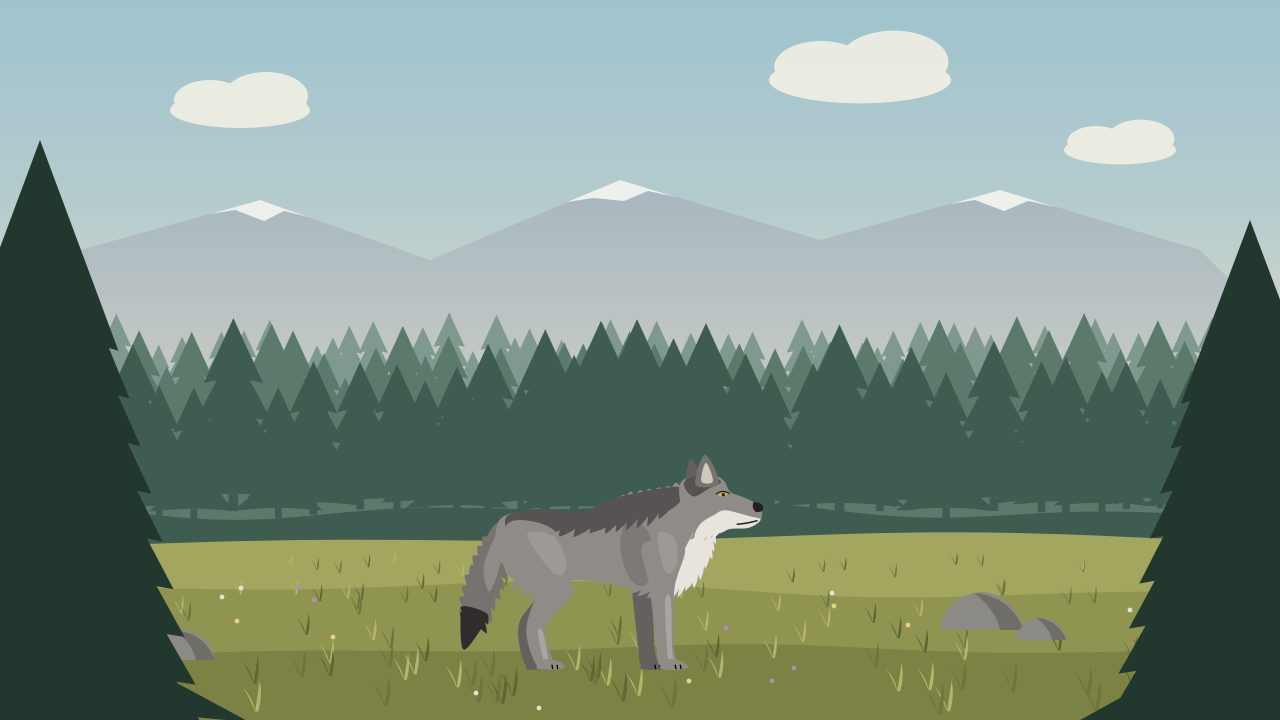
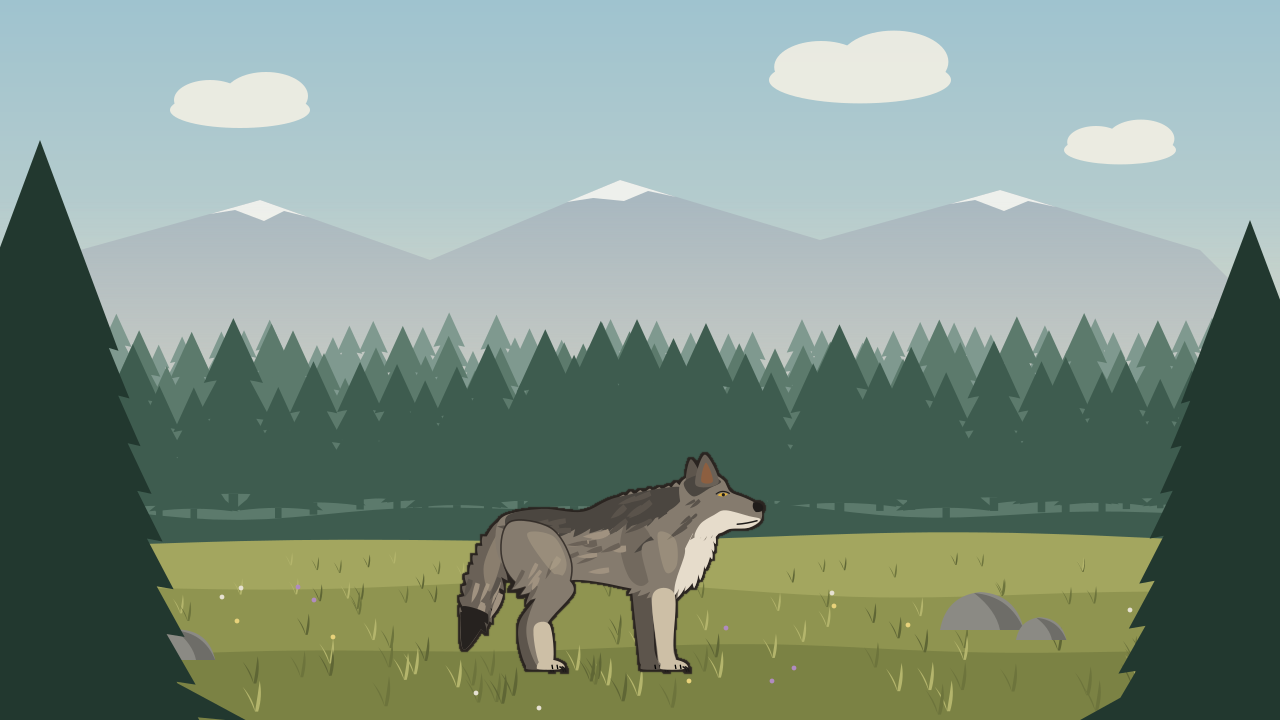
向量灰狼：試加外框墨線、毛撮與暖灰褐配色（往插畫風靠）
Claude-Session: https://claude.ai/code/session_01HkqM82v9towmCBuEomSQC3

Changed region(s): [[0.3438, 0.6111, 0.5938, 0.9472], [0.3438, 0.8861, 0.375, 0.9167]]

diff --git a/arts/art_vector_test_2026-10-13/gen_vector.py b/arts/art_vector_test_2026-10-13/gen_vector.py
@@ -94,19 +94,56 @@ def leg_shape(joints, widths):
     return right + left[::-1]
 
 
+def claws(x, y, r):
+    return "".join(f'<path d="M{x + r - 1 + i*1.6:.1f} {y - 1:.1f} q2 1 2.4 3" stroke="#1d1a18" stroke-width="1.1" fill="none" stroke-linecap="round"/>'
+                   for i in range(2))
+
+
 def paw_shape(x, y, fill, r=7.5):
     """腳掌：前低後高的橢圓，加兩條趾縫。"""
     return (f'<path d="M{x-r} {y} Q{x-r} {y-6} {x-1} {y-6.5} Q{x+r+2} {y-5} {x+r+2.5} {y-0.5} Q{x+r} {y+1} {x} {y+1} Q{x-r} {y+1} {x-r} {y} Z" fill="{fill}"/>'
             f'<path d="M{x+2} {y-2.5} L{x+2.5} {y+0.5} M{x+5.5} {y-2.5} L{x+6} {y+0.5}" stroke="#00000033" stroke-width="0.9"/>')
 
 
+INK = 'stroke="#2a2420" stroke-width="1.6" stroke-linejoin="round"'
+INK_IN = 'stroke="#2a2420" stroke-width="1.1" stroke-linejoin="round" stroke-opacity="0.8"'
+INK_RGB = (42, 36, 32)
+
+
+def tuft(x, y, length, ang, width, fill):
+    """一撮毛：葉片形，從 (x, y) 往 ang 方向（度）伸出，尾端尖。"""
+    a = math.radians(ang)
+    dx, dy = math.cos(a) * length, math.sin(a) * length
+    nx, ny = -math.sin(a) * width, math.cos(a) * width
+    return (f'<path d="M{x - nx*0.5:.1f} {y - ny*0.5:.1f} Q{x + dx*0.45 - nx:.1f} {y + dy*0.45 - ny:.1f} {x+dx:.1f} {y+dy:.1f} '
+            f'Q{x + dx*0.5 + nx*0.6:.1f} {y + dy*0.5 + ny*0.6:.1f} {x + nx*0.5:.1f} {y + ny*0.5:.1f} Z" fill="{fill}"/>')
+
+
+def tuft_field(seed, box, n, colors, length, ang, width=3.0):
+    """在 box=(x0, y0, x1, y1) 的橢圓範圍內撒 n 撮毛，方向大致一致、略有變化。"""
+    rnd = random.Random(seed)
+    x0, y0, x1, y1 = box
+    cx, cy, rx, ry = (x0 + x1) / 2, (y0 + y1) / 2, (x1 - x0) / 2, (y1 - y0) / 2
+    out = []
+    while n > 0:
+        u, v = rnd.uniform(-1, 1), rnd.uniform(-1, 1)
+        if u * u + v * v > 1:
+            continue
+        n -= 1
+        out.append(tuft(cx + u * rx, cy + v * ry, length * rnd.uniform(0.7, 1.2), ang + rnd.uniform(-12, 12),
+                        width * rnd.uniform(0.7, 1.2), rnd.choice(colors)))
+    return "".join(out)
+
+
 # ---------------- 灰狼 ----------------
 WOLF_PALETTES = {
     # base 主色、shade 陰影面、light 亮面、cream 臉頰與胸前、saddle 背上深色、far 遠側
-    "gray": dict(base="#8f8b87", shade="#76726f", light="#a9a5a0", cream="#e8e4dd", saddle="#575352",
-                 far="#64605e", nose="#222020", eye="#e2a73c", tip="#2f2c2b", ear_in="#cfc8bf"),
+    "gray": dict(base="#857b6e", shade="#6a6157", light="#aa9c86", cream="#e6dccb", saddle="#4b4640",
+                 far="#5d554c", nose="#1f1c1a", eye="#e2b13c", tip="#26221f", ear_in="#8d5f40", leg="#cdbfa6",
+                 tuft_l="#a09280", tuft_d="#5a534b"),
     "black": dict(base="#3d3c40", shade="#2f2e32", light="#4d4c51", cream="#6a686d", saddle="#232226",
-                  far="#28272b", nose="#121113", eye="#e4b54a", tip="#18171a", ear_in="#5a585d"),
+                  far="#28272b", nose="#121113", eye="#e4b54a", tip="#18171a", ear_in="#5a585d", leg="#4a494e",
+                  tuft_l="#4c4b50", tuft_d="#29282c"),
 }
 
 
@@ -116,15 +153,19 @@ def wolf(pal, pose=None, scale=1.0):
     q = dict(head=0, tail=0, fl=0, fr=0, hl=0, hr=0)
     q.update(pose or {})
     P = lambda spec, fill, sweep=(-0.5, 0.35), extra="": path(outline(spec, sweep), fill, extra)
-    L = lambda joints, widths, fill: path(outline(leg_shape(joints, widths)), fill)
+    L = lambda joints, widths, fill, extra="": path(outline(leg_shape(joints, widths)), fill, extra)
+    PO = lambda spec, fill, sweep=(-0.5, 0.35): path(outline(spec, sweep), fill)
+    PI = lambda spec, fill, sweep=(-0.5, 0.35): path(outline(spec, sweep), fill, INK_IN)
+    PAW = lambda x, y, fill, r: paw_shape(x, y, fill, r) + claws(x, y, r)
     g = []
     # 遠側的腿（深色）
-    g.append(rot(q["fr"], 152, 88, L([(156, 86), (154, 112), (156, 148), (158, 160)], [22, 15, 11, 10.5], p["far"]) + paw_shape(160, 163, p["far"], 8)))
-    g.append(rot(q["hr"], 82, 84, L([(80, 84), (94, 106), (74, 134), (78, 160)], [28, 18, 12, 10.5], p["far"]) + paw_shape(81, 163, p["far"], 8)))
+    g.append(rot(q["fr"], 152, 88, L([(156, 86), (154, 112), (156, 148), (158, 160)], [22, 15, 11, 10.5], p["far"]) + PAW(160, 163, p["far"], 8)))
+    g.append(rot(q["hr"], 82, 84, L([(80, 84), (94, 106), (74, 134), (78, 160)], [28, 18, 12, 10.5], p["far"]) + PAW(81, 163, p["far"], 8)))
     # 尾巴：蓬鬆下垂、兩側毛邊、尾尖深色
     tail_spec = [(62, 62), (60, 86), ("fur", 3, 4), (52, 114), ("fur", 3, 3), (42, 136), (30, 150),
                  (28, 128), ("fur", 4, 4), (34, 98), ("fur", 4, 4), (46, 72), (54, 62)]
-    tail = P(tail_spec, p["shade"], (0.2, 0.4))
+    tail = PO(tail_spec, p["shade"], (0.2, 0.4))
+    tail += tuft_field(3, (34, 76, 58, 128), 9, [p["tuft_l"], p["tuft_d"]], 16, 105, 3.0)
     tail += P([(47, 126), ("fur", 3, 2), (42, 136), (30, 150), (28, 128), ("fur", 2, 2), (30, 120)], p["tip"], (0.2, 0.4))
     tail += P([(54, 70), (56, 88), (48, 110), (44, 92)], p["light"], extra='opacity="0.5"')
     g.append(rot(q["tail"], 60, 66, tail))
@@ -132,38 +173,44 @@ def wolf(pal, pose=None, scale=1.0):
     body = [(58, 58), (84, 54), (112, 56), (136, 46), ("fur", 3, 8), (186, 36),
             (204, 64), ("fur", 4, 4), (200, 86), ("fur", 4, 3), (188, 104), ("fur", 4, 3), (172, 112), ("fur", 3, 4), (146, 108),
             (126, 104), (108, 102), (92, 104), (72, 104), (56, 90), (52, 72)]
-    g.append(P(body, p["base"], (-0.6, 0.3)))
+    g.append(PO(body, p["base"], (-0.6, 0.3)))
     # 肩後的陰影面、背上的深色鞍形毛（下緣是毛邊）
     g.append(P([(144, 60), (158, 70), (162, 94), (154, 106), (144, 100), (138, 78)], p["shade"], extra='opacity="0.7"'))
     g.append(P([(60, 58), (84, 53), (112, 55), (136, 45), (180, 38), (172, 54), ("fur", 4, 6), (128, 66), ("fur", 3, 4), (86, 68), (64, 72)], p["saddle"], (-0.4, 0.5)))
+    # 毛撮：頸背到肩是長毛、側腹短一點，深淺交錯
+    g.append(tuft_field(11, (136, 42, 188, 74), 16, [p["tuft_d"], p["saddle"]], 18, 152, 3.6))
+    g.append(tuft_field(12, (100, 64, 146, 96), 12, [p["tuft_l"], p["shade"]], 15, 165, 3.4))
+    g.append(tuft_field(13, (64, 58, 110, 70), 8, [p["tuft_d"]], 14, 172, 3.0))
     # 胸前與喉嚨的淺色毛
     g.append(P([(194, 62), (204, 64), ("fur", 4, 4), (200, 86), ("fur", 4, 3), (188, 104), ("fur", 4, 3), (174, 110), (178, 92), (186, 74)], p["cream"], (-0.6, 0.3)))
     # 近側後腿：厚實的大腿，後緣是「褲腳」毛邊
     thigh = [(62, 62), (90, 66), (104, 88), (102, 108), (92, 116), ("fur", 4, 4), (66, 104), (56, 84)]
-    hl = (P(thigh, p["base"], (-0.5, 0.4))
+    hl = (PI(thigh, p["base"], (-0.5, 0.4))
+          + tuft_field(21, (66, 72, 98, 106), 7, [p["tuft_l"], p["shade"]], 14, 120, 3.2)
           + P([(74, 70), (92, 72), (101, 90), (96, 100), (84, 88)], p["light"], extra='opacity="0.55"')
           + L([(98, 104), (80, 134), (86, 160)], [19, 13, 11], p["base"])
-          + path(outline(leg_shape([(83, 138), (87, 158)], [3.5, 3])), p["light"])
-          + paw_shape(89, 163, p["base"], 8.5))
+          + path(outline(leg_shape([(84, 134), (87, 159)], [11, 9.5])), p["leg"])
+          + PAW(89, 163, p["leg"], 8.5))
     g.append(rot(q["hl"], 84, 84, hl))
     # 近側前腿：肩胛、上臂粗、腕部細，前緣有一道亮面
     fl = (L([(168, 78), (167, 108), (169, 148), (171, 160)], [28, 17, 12, 11], p["base"])
           + P([(164, 70), (176, 74), (177, 92), (169, 96)], p["light"], extra='opacity="0.55"')
-          + path(outline(leg_shape([(171, 116), (172, 148), (173, 158)], [4, 3.5, 3])), p["light"])
-          + paw_shape(174, 163, p["base"], 8.5))
+          + path(outline(leg_shape([(168, 112), (169, 148), (171, 159)], [15, 11, 10])), p["leg"])
+          + PAW(174, 163, p["leg"], 8.5))
     g.append(rot(q["fl"], 162, 80, fl))
     # 頭：額頭到口鼻收細、鼻樑長；臉頰毛往後下方翹；耳朵大
     hx, hy = 178, 60
-    head = (P([(166, 38), (176, 28), (192, 26), (204, 32), (210, 42), (222, 47), (232, 52), (237, 58), (236, 67),
+    head = (PO([(166, 38), (176, 28), (192, 26), (204, 32), (210, 42), (222, 47), (232, 52), (237, 58), (236, 67),
                (226, 73), (210, 74), (200, 78), ("fur", 4, 4), (178, 78), (170, 64)], p["base"], (-0.7, 0.4))
             # 遠側的耳朵
-            + P([(172, 36), (176, 14), (186, 34)], p["far"])
+            + PO([(172, 36), (176, 14), (186, 34)], p["far"])
             # 口鼻與臉頰的淺色
             + P([(206, 58), (226, 63), (236, 66), (226, 73), (210, 74), (200, 78), ("fur", 5, 4), (180, 82), (184, 70), (196, 62)], p["cream"], (-0.7, 0.5))
             # 額頭到頸背的深色
             + P([(170, 34), (186, 27), (202, 33), (192, 39), (178, 46)], p["saddle"])
             # 近側的耳朵（外深內淺）
-            + P([(180, 36), (188, 10), (200, 34)], p["shade"])
+            + PO([(180, 36), (188, 10), (200, 34)], p["shade"])
+            + tuft_field(31, (172, 44, 194, 70), 6, [p["tuft_d"]], 11, 150, 2.6)
             + P([(185, 33), (189, 17), (195, 33)], p["ear_in"])
             # 眼睛（杏仁形）、鼻子、嘴線
             + f'<path d="M199 45 Q203 41.5 208 44 Q204 47.5 199 45 Z" fill="{p["eye"]}"/>'
@@ -264,15 +311,32 @@ def render(svg_text, out, width=None):
     cairosvg.svg2png(bytestring=svg_text.encode(), write_to=out, output_width=width)
 
 
+def render_inked(svg_text, width, radius):
+    """畫成透明底 PNG，再沿外輪廓加一圈墨線（只描外框，內部重疊不描）。"""
+    import io
+    from PIL import Image, ImageFilter
+    img = Image.open(io.BytesIO(cairosvg.svg2png(bytestring=svg_text.encode(), output_width=width))).convert("RGBA")
+    a = img.split()[3].point(lambda v: 255 if v > 40 else 0)
+    grown = a.filter(ImageFilter.MaxFilter(radius * 2 + 1)).filter(ImageFilter.GaussianBlur(0.6))
+    ink = Image.new("RGBA", img.size, INK_RGB + (0,))
+    ink.putalpha(grown)
+    return Image.alpha_composite(ink, img)
+
+
 def preview():
+    from PIL import Image
     bg = background_meadow()
     render(bg, os.path.join(HERE, "preview_meadow.png"))
-    # 灰狼與黑狼的單張與擺在背景上的樣子
-    pair = svg(500, 176, f'<rect width="500" height="176" fill="#e9e3d6"/>'
-               f'{wolf("gray")}<g transform="translate(250 0)">{wolf("black")}</g>')
-    render(pair, os.path.join(HERE, "preview_wolves.png"), 1000)
-    scene = bg.replace("</svg>", f'<g transform="translate(420 432) scale(1.45)">{wolf("gray")}</g></svg>')
-    render(scene, os.path.join(HERE, "preview_scene.png"))
+    W, H = 240, 176
+    pair = Image.new("RGBA", (1000, 352), (233, 227, 214, 255))
+    for i, pal in enumerate(["gray", "black"]):
+        im = render_inked(svg(W, H, wolf(pal)), 480, 3)
+        pair.alpha_composite(im, (i * 500 + 10, 0))
+    pair.convert("RGB").save(os.path.join(HERE, "preview_wolves.png"))
+    scene = Image.open(os.path.join(HERE, "preview_meadow.png")).convert("RGBA")
+    im = render_inked(svg(W, H, wolf("gray")), 348, 2)
+    scene.alpha_composite(im, (420, 432))
+    scene.convert("RGB").save(os.path.join(HERE, "preview_scene.png"))
 
 
 if __name__ == "__main__":
